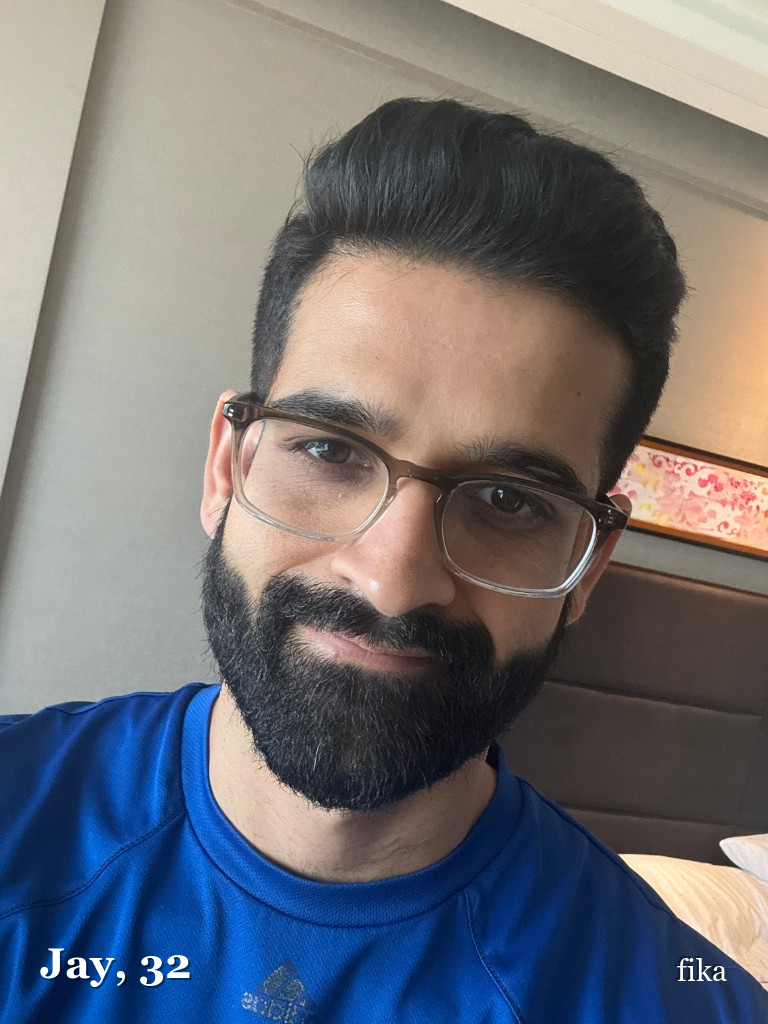
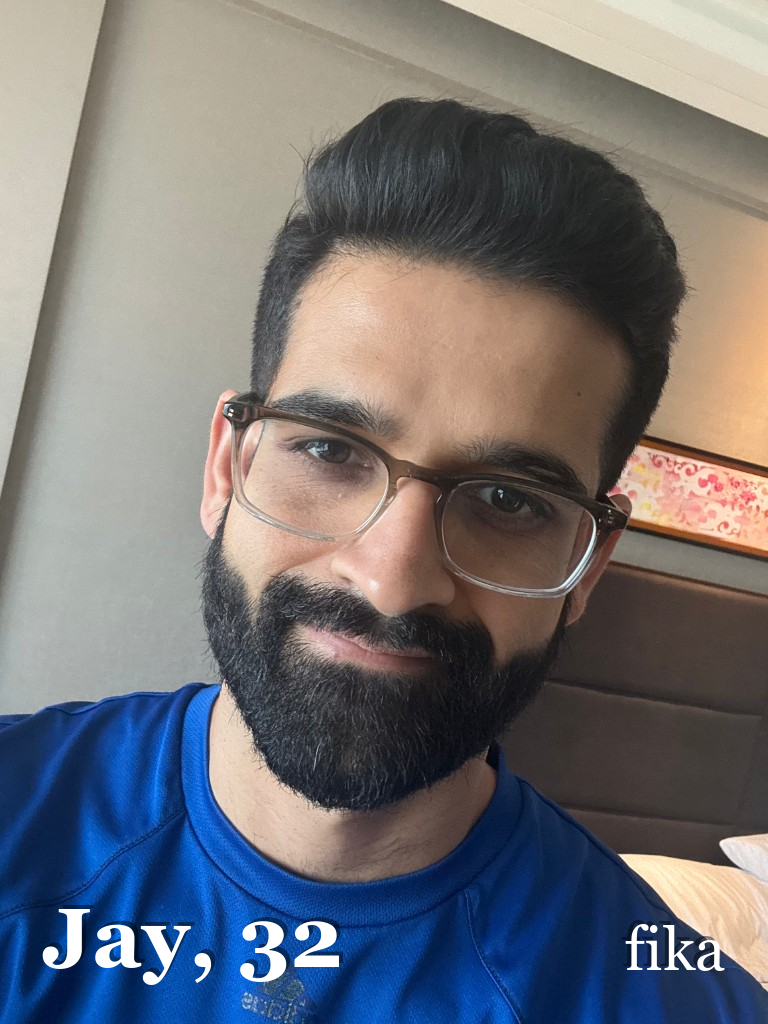
Tune signup intro pacing and refresh the sample MMS image.
Use message-specific delays so the greeting sequence reads more naturally over text, and update the sample intro image overlay to improve legibility.

Made-with: Cursor

Changed region(s): [[0.0312, 0.875, 0.2812, 0.9688], [0.3125, 0.875, 0.4688, 0.9688], [0.8125, 0.875, 0.9375, 0.9688]]

diff --git a/lib/sms-signup.ts b/lib/sms-signup.ts
@@ -5,26 +5,31 @@
 export type SmsSignupSequenceMessage = {
   content: string
   mediaUrl?: string | null
+  delayAfterMs?: number
 }
 
 /** New-user phone-first signup sequence. Link is sent as the last message. */
 export function messageSmsSignupLinkSentSequence(link: string, sampleImageUrl?: string | null): SmsSignupSequenceMessage[] {
   const steps: SmsSignupSequenceMessage[] = [
-    { content: 'Hey hey! Welcome to Fika.' },
+    { content: 'Hey hey! Welcome to Fika.', delayAfterMs: 1000 },
     {
       content:
         "I'm your AI concierge. I'll introduce you to people nearby who you'd have a good conversation with.",
+      delayAfterMs: 2500,
     },
-    { content: 'You’ll get intros like this:' },
+    { content: 'You’ll get intros like this:', delayAfterMs: 2000 },
   ]
   if (sampleImageUrl?.trim()) {
-    steps.push({ content: 'Jay, 32', mediaUrl: sampleImageUrl.trim() })
+    steps.push({ content: ' ', mediaUrl: sampleImageUrl.trim(), delayAfterMs: 3000 })
   }
   steps.push(
-    { content: 'Meet Jay. He’s 32, into fitness + startups.' },
-    { content: 'You’re both free Wednesday evening. Want to grab coffee at Village Well Books?' },
-    { content: 'Just 👍 if you’re in. If he 👍 too, it’s locked.' },
-    { content: 'To get started, tell me a bit more about you here:' },
+    { content: 'Meet Jay. He’s 32, into fitness + startups.', delayAfterMs: 2000 },
+    {
+      content: 'You’re both free Wednesday evening. Want to grab coffee at Village Well Books?',
+      delayAfterMs: 3000,
+    },
+    { content: 'Just 👍 if you’re in. If he 👍 too, it’s locked.', delayAfterMs: 2000 },
+    { content: 'To get started, tell me a bit more about you here:', delayAfterMs: 1500 },
     { content: link }
   )
   return steps

diff --git a/app/api/sendblue-webhook/route.ts b/app/api/sendblue-webhook/route.ts
@@ -669,7 +669,7 @@ export async function POST(request: Request) {
         mediaUrl: signupMessages[i].mediaUrl ?? null,
       })
       if (i < signupMessages.length - 1) {
-        await new Promise((r) => setTimeout(r, 1000))
+        await new Promise((r) => setTimeout(r, signupMessages[i].delayAfterMs ?? 1000))
       }
     }
     return NextResponse.json({ ok: true })
